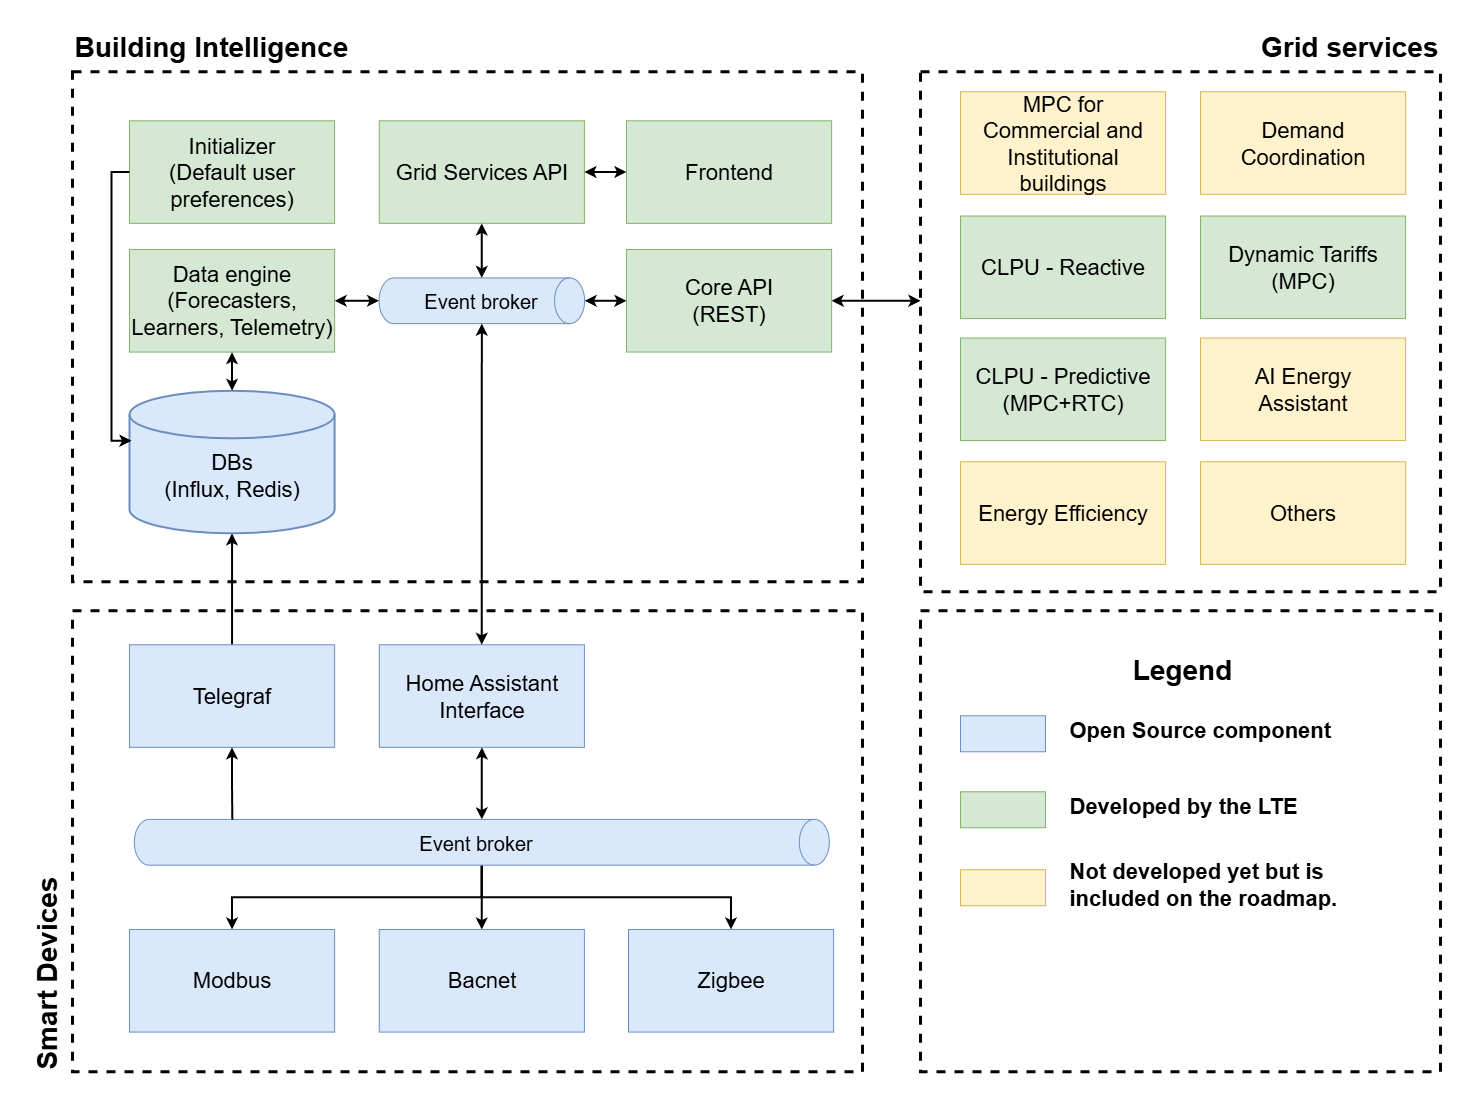
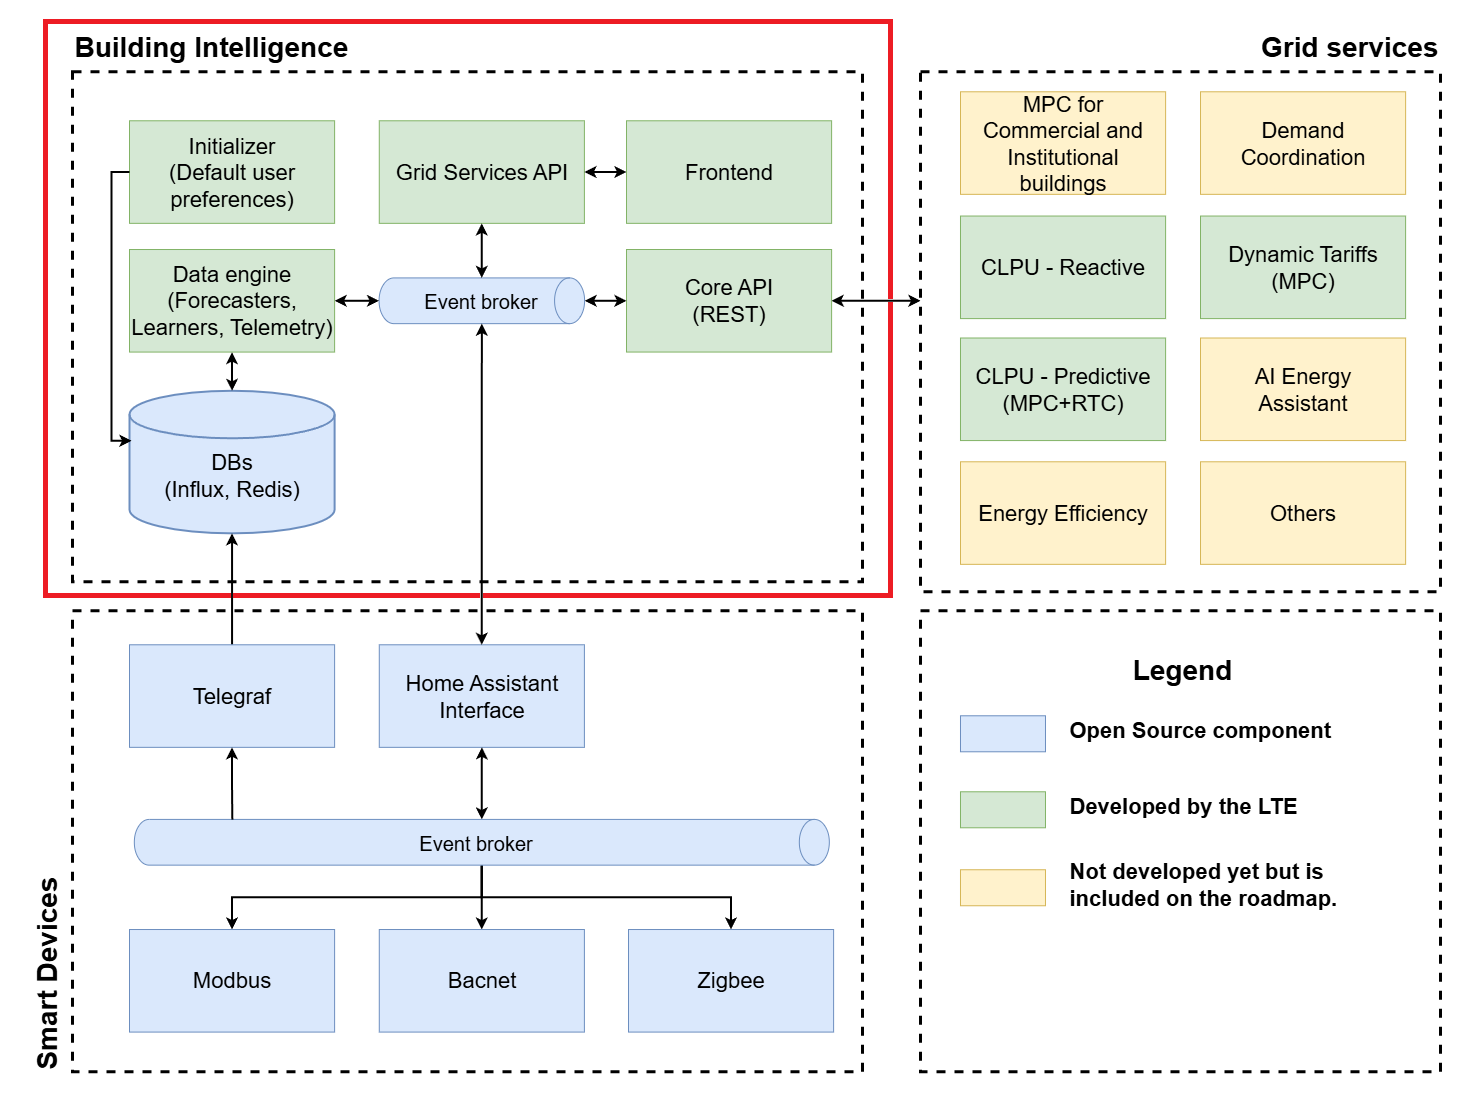
small fix docs

Changed region(s): [[0.0308, 0.0, 0.6156, 0.5599]]

diff --git a/docs/docusaurus/docusaurus.config.ts b/docs/docusaurus/docusaurus.config.ts
@@ -6,7 +6,7 @@ import type * as Preset from '@docusaurus/preset-classic';
 
 const config: Config = {
   title: 'Building Intelligence',
-  tagline: 'Dinosaurs are cool',
+  tagline: 'An open-source platform for developing and testing grid services for smart homes.',
   favicon: 'img/favicon.ico',
 
   // Future flags, see https://docusaurus.io/docs/api/docusaurus-config#future
@@ -137,7 +137,7 @@ const config: Config = {
           ],
         },
       ],
-      copyright: `Copyright © ${new Date().getFullYear()} My Project, Inc. Built with Docusaurus.`,
+      copyright: `Last update: ${new Date().toLocaleString('en-US', { month: 'long', year: 'numeric' })}`,
     },
     prism: {
       theme: prismThemes.github,

diff --git a/docs/docusaurus/docs/intro.md b/docs/docusaurus/docs/intro.md
@@ -20,7 +20,10 @@ Building Intelligence's core mission is to make it easier for power utilities to
 ![Building Intelligence Diagram](/img/hems.png)
 
 
-The architecture of the Building Intelligence platform is modular, consisting of three primary layers: **Smart Devices**, **Building Intelligence**, and **Grid Services**. This design separates the device-level communication, data management, and high-level control logic, creating a flexible and scalable system.
+The architecture of the Building Intelligence platform is modular, consisting of three primary layers: **Smart Devices**, **Building Intelligence**, and **Grid Services**. This design separates the device-level communication, data management, and high-level control logic, creating a flexible and scalable system. This code repository contains the codes of the red box, the Building Intelligence. The grid services will be hosted on the following github repositories: 
+- [**Predictive Control**](https://github.com/hq-opensource/predictive-control) 
+
+The rest of grid services on the roadmap will be published here as soon as they are released.
 
 ### Smart Devices
 
